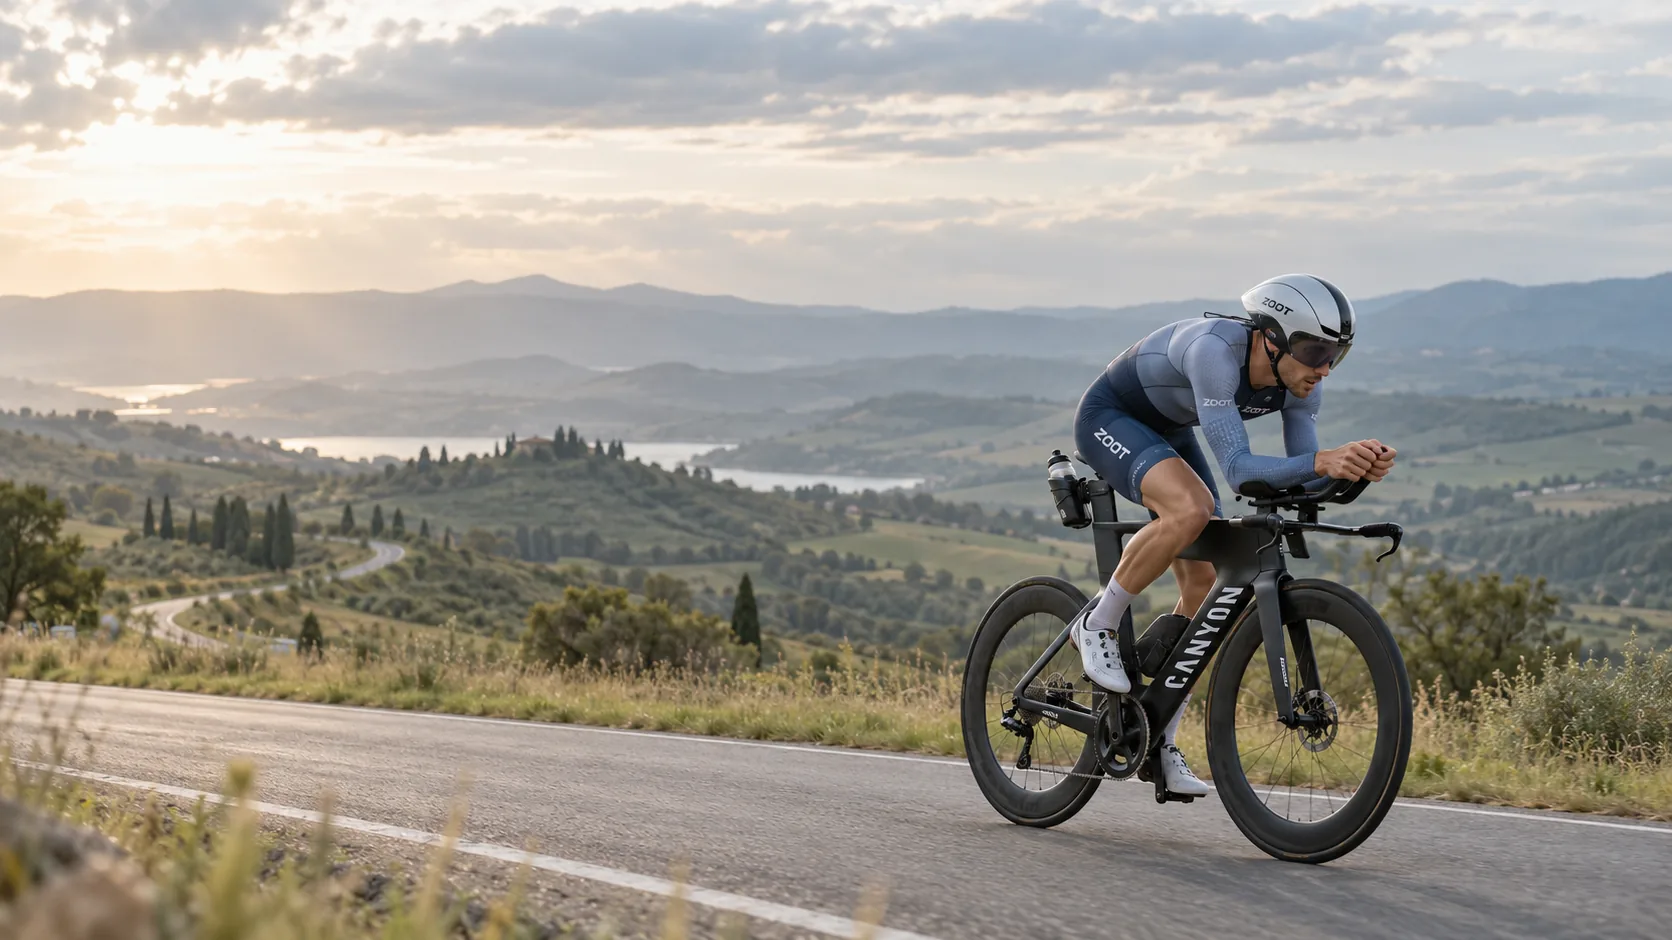
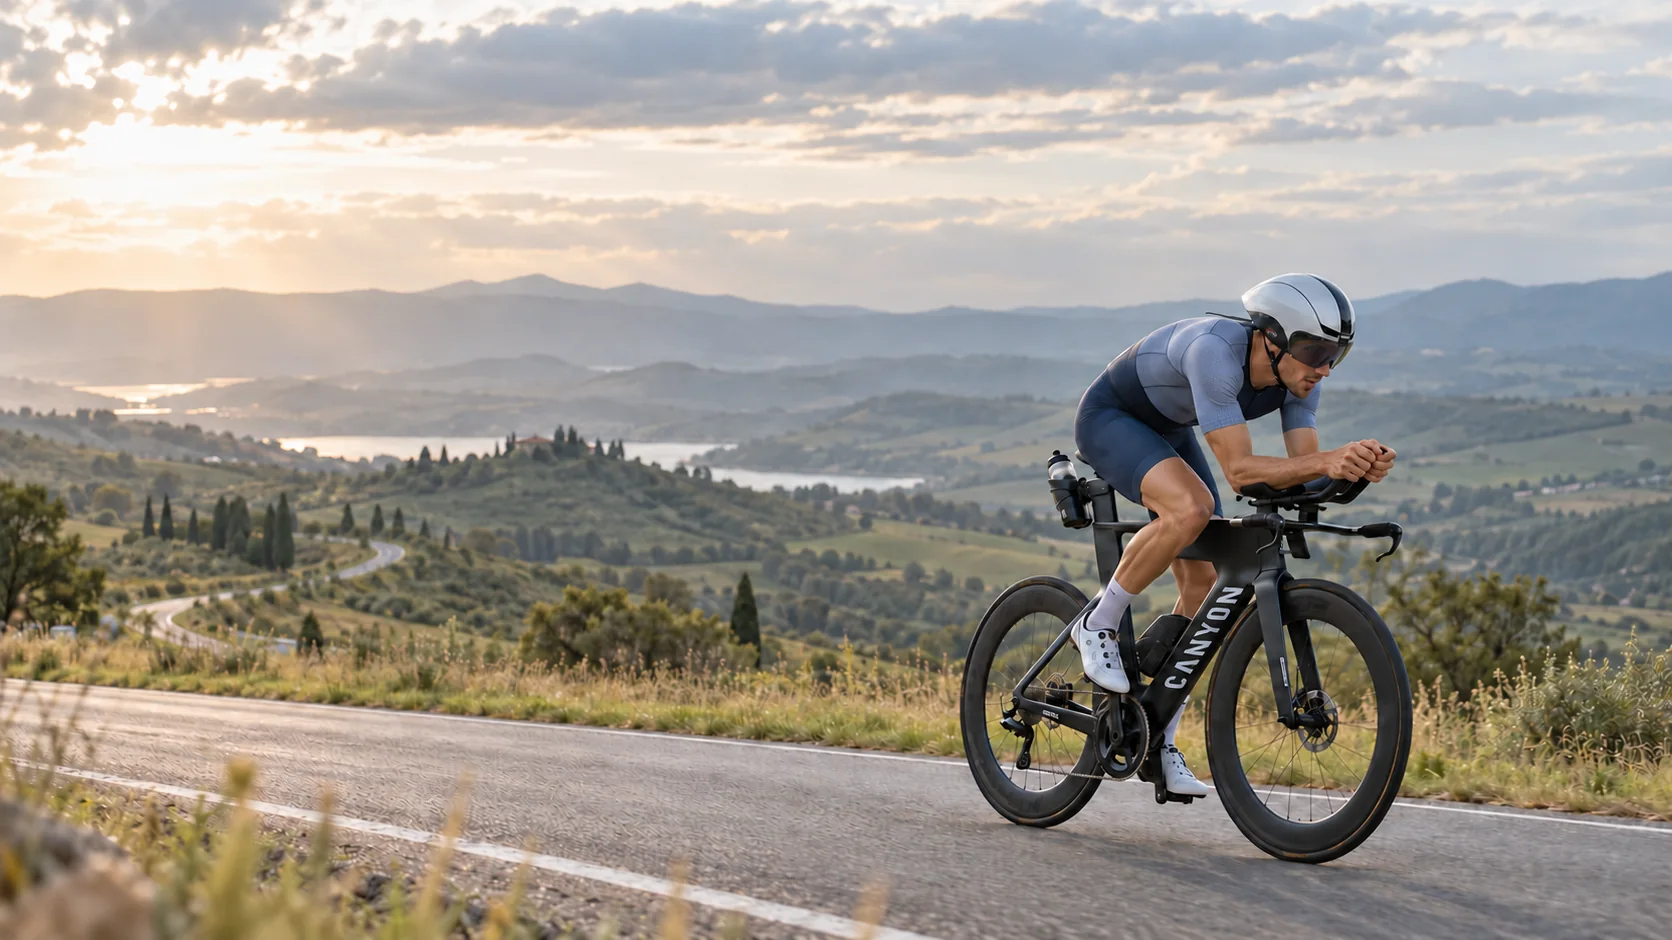
Coach works across models; new hero photo
Every coach request goes to OpenRouter with a model list and fallback: questions
to DeepSeek then the newest Gemini Flash, whole-plan reviews to the newest Claude
Sonnet, then GPT, then Gemini Pro (the ~...-latest aliases follow each family's
newest release). A rejected list falls back to the first model alone; the reply
reports which model answered. Coach page, landing and privacy policy say so.
New hero photo (short sleeves, no Zoot marks) and its phone crop.

Claude-Session: https://claude.ai/code/session_012nSa73TQJCXMLahdjqwpcK

diff --git a/src/app/api/coach/route.ts b/src/app/api/coach/route.ts
@@ -3,14 +3,16 @@
 // passages, adds the instructions, calls the model through OpenRouter and returns the answer, its sources and
 // any proposed plan change. The model key never reaches the browser.
 //
-// One model (COACH_MODEL, default deepseek/deepseek-v4.1-flash) answers questions. A whole-plan review (mode
-// "restructure") runs only after the athlete accepts a pitch card, and uses COACH_MODEL_STRONG when set (default:
-// the same model). COACH_DAILY_CAP: questions per athlete per day (default 40).
+// The coach works across several models (src/lib/coach/models.ts): everyday questions go to the fast list
+// (DeepSeek first), a whole-plan review (mode "restructure", run only after the athlete accepts a pitch card) to
+// the strong list (newest Claude, then GPT, then Gemini). OpenRouter tries each list in order, so a model that is
+// down never stops the coach. COACH_DAILY_CAP: questions per athlete per day (default 40).
 import { NextResponse, type NextRequest } from "next/server";
 import { ACCOUNTS_ON } from "@/lib/supabase/env";
 import { supabaseServer } from "@/lib/supabase/server";
 import { LOG_MEAL_TOOL, RESTRUCTURE_PROMPT, RESTRUCTURE_TOOL, SYSTEM_PROMPT, TOOLS, contextMessage } from "@/lib/coach/prompt";
 import { MEAL_LIBRARY, mealMacros } from "@/lib/nutrition/meals";
+import { coachModels } from "@/lib/coach/models";
 import { PASSAGES } from "@/lib/coach/library-data";
 import { referenceBlock, searchLibrary, usedCitations, type Passage } from "@/lib/coach/library";
 import { RED_FLAG_REPLY, redFlag } from "@/lib/coach/safety";
@@ -19,8 +21,6 @@ import type { CoachContext, CoachReply, CoachRequest, MealLogItem, PlanChange, P
 export const runtime = "nodejs";
 // a whole-plan review sends the full remaining plan to the model and can take well over the 10 s default; Vercel allows 60 s here
 export const maxDuration = 60;
-const MODEL = process.env.COACH_MODEL || "deepseek/deepseek-v4.1-flash";
-const MODEL_STRONG = process.env.COACH_MODEL_STRONG || MODEL; // a stronger model for the whole-plan review is one setting away
 const CAP = Number(process.env.COACH_DAILY_CAP || 40);
 const KEY = process.env.OPENROUTER_API_KEY || "";
 const BASE = process.env.OPENROUTER_BASE_URL || "https://openrouter.ai/api/v1";
@@ -71,9 +71,10 @@ export async function POST(req: NextRequest) {
     ? [{ role: "system", content: RESTRUCTURE_PROMPT }, { role: "system", content: contextMessage(trimContext(ctx, true)) }, ...(refs.text ? [{ role: "system", content: `Reference passages:\n${refs.text}` }] : []), ...history]
     : [{ role: "system", content: SYSTEM_PROMPT }, { role: "system", content: contextMessage(trimContext(ctx, false)) }, ...(refs.text ? [{ role: "system", content: `Reference passages:\n${refs.text}` }] : []), ...history];
 
-  const model = restructure ? MODEL_STRONG : MODEL;
-  const out = await callModel(model, messages, restructure ? TOOLS : [...TOOLS, RESTRUCTURE_TOOL, LOG_MEAL_TOOL], restructure ? 1800 : 700);
-  if (!out) return NextResponse.json({ error: "upstream" }, { status: 502 });
+  const models = restructure ? coachModels().strong : coachModels().fast;
+  const res = await callModel(models, messages, restructure ? TOOLS : [...TOOLS, RESTRUCTURE_TOOL, LOG_MEAL_TOOL], restructure ? 1800 : 700, restructure ? 55_000 : 30_000);
+  if (!res) return NextResponse.json({ error: "upstream" }, { status: 502 });
+  const { out, model } = res;
 
   let text = (out.content ?? "").trim();
   let proposal: Proposal | undefined;
@@ -98,19 +99,27 @@ export async function POST(req: NextRequest) {
   return NextResponse.json({ text, proposal, meals: meals.length ? meals : undefined, sources: sources.length ? sources : undefined, model, tier: restructure ? "strong" : "fast" } satisfies CoachReply);
 }
 
-async function callModel(model: string, messages: Msg[], tools: unknown[], maxTokens: number): Promise<ModelOut | null> {
-  let res: Response;
-  try {
-    res = await fetch(`${BASE}/chat/completions`, {
-      method: "POST",
-      headers: { Authorization: `Bearer ${KEY}`, "Content-Type": "application/json", "HTTP-Referer": "https://velocity-smoky-three.vercel.app", "X-Title": "Velocity coach" },
-      body: JSON.stringify({ model, messages, tools, tool_choice: "auto", max_tokens: maxTokens, temperature: 0.3 }),
-      signal: AbortSignal.timeout(90_000),
-    });
-  } catch (e) { console.error("[coach] fetch", e); return null; }
-  if (!res.ok) { console.error("[coach] openrouter", model, res.status, (await res.text()).slice(0, 500)); return null; }
-  const data = (await res.json()) as { choices?: { message?: ModelOut }[] };
-  return data.choices?.[0]?.message ?? null;
+/** One request to OpenRouter with the whole model list: the first answers, the rest stand in when it fails.
+ *  If OpenRouter rejects the list itself (an unknown id in an override), the first model is tried alone.
+ *  Returns the answer and the model that actually gave it. */
+async function callModel(models: string[], messages: Msg[], tools: unknown[], maxTokens: number, timeoutMs: number): Promise<{ out: ModelOut; model: string } | null> {
+  const send = async (list: string[]) => {
+    try {
+      return await fetch(`${BASE}/chat/completions`, {
+        method: "POST",
+        headers: { Authorization: `Bearer ${KEY}`, "Content-Type": "application/json", "HTTP-Referer": "https://velocityathletes.com", "X-Title": "Velocity coach" },
+        body: JSON.stringify({ model: list[0], ...(list.length > 1 ? { models: list } : {}), messages, tools, tool_choice: "auto", max_tokens: maxTokens, temperature: 0.3 }),
+        signal: AbortSignal.timeout(timeoutMs),
+      });
+    } catch (e) { console.error("[coach] fetch", e); return null; }
+  };
+  let res = await send(models);
+  if (res && res.status === 400 && models.length > 1) { console.error("[coach] openrouter rejected the model list", (await res.text()).slice(0, 300)); res = await send(models.slice(0, 1)); }
+  if (!res) return null;
+  if (!res.ok) { console.error("[coach] openrouter", models[0], res.status, (await res.text()).slice(0, 500)); return null; }
+  const data = (await res.json()) as { model?: string; choices?: { message?: ModelOut }[] };
+  const out = data.choices?.[0]?.message;
+  return out ? { out, model: data.model ?? models[0] } : null;
 }
 
 /** Keeps the request small whatever the browser sends; the whole plan goes only in restructure mode. */

diff --git a/src/lib/public/product.ts b/src/lib/public/product.ts
@@ -20,8 +20,8 @@ export interface Section {
   body: string[];
   /** Short facts, one per line. */
   facts?: string[];
-  /** Short labels shown as a row of chips (e.g. model names); the first is marked "in use". */
-  chips?: string[];
+  /** A row of labelled chips (the coach's models): name, and what it is used for. */
+  chips?: { name: string; role: string }[];
   shot?: Shot;
   /** A drawn mock-up instead of a screenshot. */
   mock?: "calendar";
@@ -115,7 +115,7 @@ export const PRODUCT: ProductPage[] = [
     slug: "coach",
     nav: "Coach",
     title: "Coach",
-    lead: "A coach that reads your plan, your activities, your body data and your meals before it answers, cites its sources, and changes the plan only through proposals you accept.",
+    lead: "A coach that reads your plan, your activities, your body data and your meals before it answers, cites its sources, and changes the plan only through proposals you accept. It works across the leading AI models.",
     hero: shot("coach-page", "The Plan page with the coach rail open: a question about last week answered with the figures from the plan and the logged activities."),
     sections: [
       {
@@ -143,9 +143,9 @@ export const PRODUCT: ProductPage[] = [
         shot: shot("coach-pitch", "A pitch card: what the full review would change and why, with Run the full review and Not now.", 339, 625),
       },
       {
-        id: "models", title: "The model", short: "One setting away from any leading model",
-        body: ["The coach runs on DeepSeek through OpenRouter, which serves the leading language models side by side. Moving the coach to another model is one setting: your data, the library and the way answers are checked stay the same."],
-        chips: ["DeepSeek", "GPT", "Claude", "Gemini", "Llama", "Mistral", "Qwen"],
+        id: "models", title: "Built across the leading models", short: "The right model for each job, and the newest as they arrive",
+        body: ["The coach works across the leading AI models. Everyday questions go to a fast model; whole-plan reviews go to the strongest one available. If a model is down, the next one in line answers.", "New versions are picked up as they are released, so the coach gets stronger without you changing anything. Your data, the library and the safety check stay the same whichever model answers."],
+        chips: [{ name: "DeepSeek", role: "Questions" }, { name: "Gemini Flash", role: "Questions, backup" }, { name: "Claude", role: "Plan reviews" }, { name: "GPT", role: "Plan reviews, backup" }, { name: "Gemini Pro", role: "Plan reviews, backup" }],
       },
       {
         id: "limits", title: "Limits", short: "What the coach will not do",

diff --git a/src/app/product/product.css b/src/app/product/product.css
@@ -28,10 +28,12 @@
 .pp-mock { min-width: 0; }
 .pp-side { display: grid; gap: 18px; align-content: center; padding: 28px 32px; border-radius: var(--radius-lg); background: var(--surface-2); }
 .pp-side .lp-facts { font-size: 16px; gap: 14px; }
-.pp-chips { list-style: none; margin: 4px 0 0; padding: 0; display: flex; flex-wrap: wrap; gap: 8px; }
-.pp-chips li { font-size: 14px; font-weight: 600; color: var(--muted); border: 1px solid var(--line); border-radius: 999px; padding: 6px 14px; display: inline-flex; align-items: center; gap: 8px; }
-.pp-chips li.on { color: var(--ink); border-color: var(--ink); }
-.pp-chips li em { font-style: normal; font-size: 11px; font-weight: 600; color: var(--accent); }
+.pp-chips { list-style: none; margin: 0; padding: 0; display: grid; grid-template-columns: repeat(auto-fill, minmax(180px, 1fr)); gap: 10px; }
+.pp-chips li { display: grid; gap: 2px; padding: 14px 16px; border-radius: var(--radius); background: var(--surface); border: 1px solid var(--line); }
+.pp-chips li b { font-size: 17px; font-weight: 600; letter-spacing: -0.01em; color: var(--ink); }
+.pp-chips li em { font-style: normal; font-size: 12.5px; color: var(--muted); }
+.pp-chips li.on { border-color: var(--accent); }
+.pp-chips li.on em { color: var(--accent); }
 .pp-more { max-width: var(--lp-w); margin: 112px auto 0; padding: 0 var(--lp-gutter); box-sizing: content-box; display: grid; grid-template-columns: repeat(2, minmax(0, 1fr)); gap: 16px; }
 .pp-more-card { text-decoration: none; color: inherit; display: grid; gap: 6px; padding: 22px 24px; border: 1px solid var(--line); border-radius: var(--radius-lg); }
 .pp-more-card b { font-size: 22px; font-weight: 600; letter-spacing: -0.02em; }

diff --git a/src/lib/coach/models.ts b/src/lib/coach/models.ts
@@ -1,0 +1,25 @@
+// Which AI models the coach uses, in order of preference. Requests go through OpenRouter with the whole list: the
+// first model answers, and if it is down or overloaded OpenRouter passes the request to the next one.
+// The "~…-latest" ids are OpenRouter aliases that always point at the newest model of that family, so the coach
+// moves to stronger models as they are released without a code change.
+//
+// Env overrides (Vercel): COACH_MODELS / COACH_MODELS_STRONG replace a list (comma-separated ids);
+// COACH_MODEL / COACH_MODEL_STRONG (older single settings) put one model in front of the defaults.
+
+/** Everyday questions: fast and cheap. */
+export const FAST_MODELS = ["deepseek/deepseek-v4.1-flash", "~google/gemini-flash-latest"];
+/** Whole-plan reviews (and, next, new plans): the strongest models. */
+export const STRONG_MODELS = ["~anthropic/claude-sonnet-latest", "~openai/gpt-latest", "~google/gemini-pro-latest"];
+
+const split = (v: string) => v.split(",").map((s) => s.trim()).filter(Boolean);
+function pick(list: string | undefined, one: string | undefined, defaults: string[]) {
+  if (list) return split(list);
+  if (one) return [one, ...defaults.filter((m) => m !== one)];
+  return defaults;
+}
+export function coachModels() {
+  return {
+    fast: pick(process.env.COACH_MODELS, process.env.COACH_MODEL, FAST_MODELS),
+    strong: pick(process.env.COACH_MODELS_STRONG, process.env.COACH_MODEL_STRONG, STRONG_MODELS),
+  };
+}

diff --git a/src/app/privacy/page.tsx b/src/app/privacy/page.tsx
@@ -41,7 +41,7 @@ export default function Privacy() {
         <tbody>
           <tr><th>Supabase</th><td>Database and sign-in. Stores everything listed above.</td></tr>
           <tr><th>Vercel</th><td>Hosts the website and runs the app&apos;s server code.</td></tr>
-          <tr><th>OpenRouter</th><td>Passes each coach question, with the compact copy of your data, to the language model that answers it (currently DeepSeek). It is used to answer that question only.</td></tr>
+          <tr><th>OpenRouter</th><td>Passes each coach question, with the compact copy of your data, to the AI model that answers it: DeepSeek or Google Gemini for everyday questions, Anthropic Claude, OpenAI GPT or Google Gemini for whole-plan reviews. It is used to answer that question only.</td></tr>
           <tr><th>Junction</th><td>Connects your watch (Garmin today) and sends your activities and body data to Velocity once you connect it. You can disconnect it at any time under Connect wearable; activities already imported stay until you delete them.</td></tr>
           <tr><th>USDA FoodData Central</th><td>Receives the words you type into food search, nothing else about you.</td></tr>
           <tr><th>CARTO</th><td>Serves the map tiles behind a route, so it sees which map area is shown.</td></tr>

diff --git a/src/app/product/[slug]/page.tsx b/src/app/product/[slug]/page.tsx
@@ -50,7 +50,7 @@ export default async function ProductPage({ params }: { params: Promise<{ slug: 
 
       {page.sections.map((s, i) => {
         const facts = s.facts && <ul className="lp-facts">{s.facts.map((f) => <li key={f}>{f}</li>)}</ul>;
-        const chips = s.chips && <ul className="pp-chips" aria-label="Models">{s.chips.map((c, j) => <li key={c} className={j === 0 ? "on" : ""}>{c}{j === 0 && <em>In use</em>}</li>)}</ul>;
+        const chips = s.chips && <ul className="pp-chips" aria-label="Models">{s.chips.map((c) => <li key={c.name} className={/backup/.test(c.role) ? "" : "on"}><b>{c.name}</b><em>{c.role}</em></li>)}</ul>;
         const shot = s.mock === "calendar" ? <div className="pp-mock"><CalendarMock animate={false} /></div> : s.shot ? <Figure shot={s.shot} small={s.small} /> : null;
         // a section without a picture puts its facts (or chips) beside the text instead, so the page stays balanced
         const visual = shot ?? ((facts || chips) && <div className="pp-side">{chips}{facts}</div>);

diff --git a/scripts/mock-coach.js b/scripts/mock-coach.js
@@ -10,6 +10,9 @@ http.createServer((req, res) => {
       const sys = j.messages.filter((m) => m.role === "system").map((m) => m.content);
       const ctx = JSON.parse(sys.find((c) => c.startsWith("Athlete data"))?.split("\n").slice(1).join("\n") || "{}");
       const tools = (j.tools || []).map((t) => t.function.name);
+      console.log("asked", j.model, j.models ? `(then ${j.models.slice(1).join(", ")})` : "");
+      // an unknown model id in the list gets a 400, the way OpenRouter answers it
+      if ((j.models || []).some((m) => m.startsWith("bad/"))) { res.statusCode = 400; res.end(JSON.stringify({ error: { message: "bad model" } })); return; }
       const tomorrow = (ctx.sessions || []).find((s) => s.date > ctx.today && s.sport !== "rest");
       let message;
       if (/today/.test(last)) {

diff --git a/src/app/page.tsx b/src/app/page.tsx
@@ -122,6 +122,7 @@ export default function Landing() {
             <li>Reads your plan, your sessions, your body data and your nutrition before every decision and answer</li>
             <li>Reschedules activities, adjusts workout splits and redesigns your long-term plan around your life and status</li>
             <li>Recommendations drawn from the published work of coaches, sports scientists and sports doctors</li>
+            <li>Works across the leading AI models, and moves to the strongest as they are released</li>
           </ul>
         </div>
         <div className="lp-chats">

diff --git a/CLAUDE.md b/CLAUDE.md
@@ -45,7 +45,7 @@ with tokens in `src/app/globals.css`, no UI library. `npm run dev` → http://lo
 ## Public site, coach, Garmin (branch `public-site`, 2026-10-27)
 - `/` is the public front page (`src/app/page.tsx` + `landing.css`, screenshots in `public/landing/`). Signed-in athletes are sent to `/dashboard` by `proxy.ts`; the page renders without the app shell and without loading data.
 - No beta signs anywhere: feedback lives in the account menu ("Send feedback"). Supplement names like "Beta-alanine" are fine.
-- Coach: `POST /api/coach` → OpenRouter (`OPENROUTER_API_KEY`, `COACH_MODEL` default `deepseek/deepseek-v4.1-flash`, `COACH_DAILY_CAP` 40). Order inside the route: fixed red-flag check (`src/lib/coach/safety.ts`, no model) → library search (`src/lib/coach/library.ts` over `library-data.ts` + the admin's `library` table rows) → model with instructions (`prompt.ts`) and the athlete's context (`context.ts`). Answers cite passages as `[L1]`; the rail shows them as superscripts with a Sources list. Plan changes come back as proposals (`coach_messages.proposal`, `status`, `sources`, `tier`; SQL `supabase/schema-coach.sql`); Accept applies them through the store. A whole-plan review never runs by itself: the model pitches it (`request_restructure` → proposal of kind `review`), the athlete clicks "Run the full review" (or the rail's "Review my plan"), then mode `restructure` sends every remaining week (`plan_all`) and uses `COACH_MODEL_STRONG` (default = `COACH_MODEL`; one setting to put a stronger model on it). Admin page has a Library editor. Without a key the rule-based `coachReply` answers.
+- Coach: `POST /api/coach` → OpenRouter (`OPENROUTER_API_KEY`, `COACH_DAILY_CAP` 40). Multi-model (`src/lib/coach/models.ts`): each request sends a model list with OpenRouter fallback; questions = DeepSeek then `~google/gemini-flash-latest`, whole-plan reviews = `~anthropic/claude-sonnet-latest`, `~openai/gpt-latest`, `~google/gemini-pro-latest` (the `~…-latest` aliases follow each family's newest model). Env `COACH_MODELS` / `COACH_MODELS_STRONG` replace a list. The public pages say "works across the leading AI models"; keep that true. Order inside the route: fixed red-flag check (`src/lib/coach/safety.ts`, no model) → library search (`src/lib/coach/library.ts` over `library-data.ts` + the admin's `library` table rows) → model with instructions (`prompt.ts`) and the athlete's context (`context.ts`). Answers cite passages as `[L1]`; the rail shows them as superscripts with a Sources list. Plan changes come back as proposals (`coach_messages.proposal`, `status`, `sources`, `tier`; SQL `supabase/schema-coach.sql`); Accept applies them through the store. A whole-plan review never runs by itself: the model pitches it (`request_restructure` → proposal of kind `review`), the athlete clicks "Run the full review" (or the rail's "Review my plan"), then mode `restructure` sends every remaining week (`plan_all`) to the strong list. Admin page has a Library editor. Without a key the rule-based `coachReply` answers.
 - Garmin through Junction (junction.com): `src/lib/integrations/junction.ts`; routes `/api/connect/garmin` (start), `/done` (return), `/disconnect`, `/sync` (pulls the last 90 days with the athlete's own session: the minimum setup needs only the Junction key), `/api/connect/status`, webhook `/api/webhooks/junction` (Svix signature, service-role writes; optional, for automatic updates). Routes come from `map.summary_polyline`. Admin page lists connections + webhook calls (`admin_integrations`, `admin_webhook_log`). Env in `.env.example`; SQL in `supabase/schema-integrations.sql`. Switched on by `WEARABLE_PROVIDER=junction` + `WEARABLE_API_KEY`.
 - Phone app design: Claude Design canvas "Velocity Mobile" (6 screens, same tokens). Front-page review copy: artifact "Velocity Front Page".
 - Public site = front page (`src/app/page.tsx`, `landing.css`) + product pages `/product/{train,nutrition,coach}` (`src/app/product/[slug]`, content in `src/lib/public/product.ts`, which also feeds the top-bar menus in `components/public/PublicNav.tsx`). Screenshots: `node scripts/mock-coach.js` + app started with `OPENROUTER_BASE_URL=http://localhost:3999/v1`, then `node scripts/product-shots.js` writes `public/product/*.webp` and the front-page crops. Photos: `public/landing/hero*.webp`, `trainer.webp`; meal photos `public/food/<id>(-s).webp` shared by the front page and the nutrition meal library (`src/lib/nutrition/meals.ts`).
